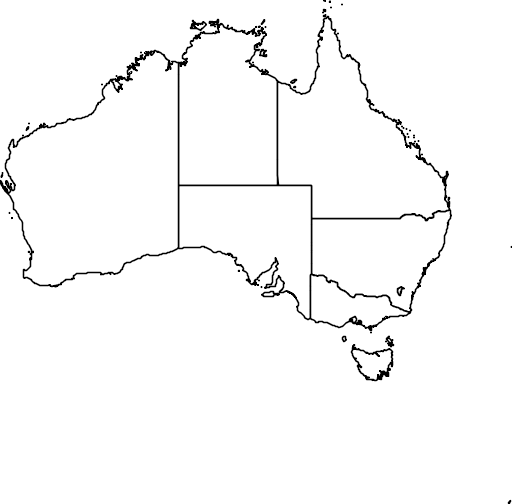
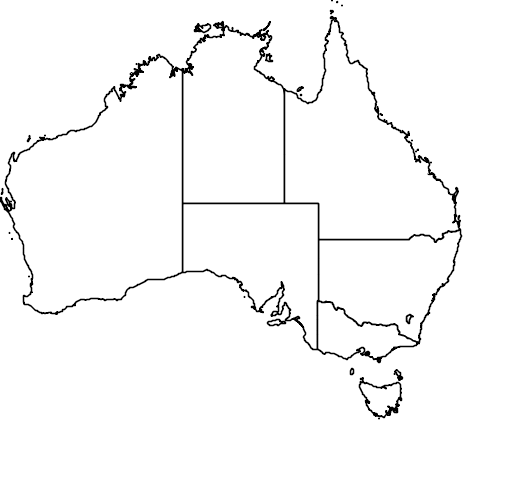
- updated WMSController to use UID's - updated base aus1 image without the Macq Is and Lord Howe Is
git-svn-id: http://alageospatialportal.googlecode.com/svn/trunk@434 73def43e-0e3b-11df-a5af-b38b39d06e06

Changed region(s): [[0.0, 0.0, 0.9062, 0.8333], [0.9688, 0.9821, 1.0, 1.0], [0.8438, 0.5655, 0.875, 0.5952]]

diff --git a/alaspatial/src/main/java/org/ala/spatial/web/services/WMSController.java b/alaspatial/src/main/java/org/ala/spatial/web/services/WMSController.java
@@ -189,7 +189,7 @@ public class WMSController {
                 } else {
                     System.out.println("Starting out search for: " + institution_code);
                     //msg = "generating density insitution code map for: " + institution_code;
-                    int[] recs = OccurrencesIndex.lookup("institutionCode", institution_code);
+                    int[] recs = OccurrencesIndex.lookup("institution_code_uid", institution_code); // institutionCode
 
                     if (recs != null) {
 
@@ -201,7 +201,7 @@ public class WMSController {
                         if (collection_code != null) {
                             for (int i = 0; i < collection_code.length; i++) {
                                 //msg = "generating density insitution/collection code map for: " + institution_code + "/" + collection_code[i];
-                                int[] recs2 = OccurrencesIndex.lookup("collectionCode", collection_code[i]);
+                                int[] recs2 = OccurrencesIndex.lookup("collection_code_uid", collection_code[i]); // collectionCode
                                 if (recs2 != null) {
                                     System.out.println("Got recs2.length: " + recs2.length);
                                     if (finalRecs != null) {
@@ -241,15 +241,15 @@ public class WMSController {
                             System.out.println("Sending out: " + msg);
 
                         } else {
-                            msg = "base/mapaus1_white.png";
+                            msg = baseOutUrl + "base/mapaus1_white.png";
                         }
 
                     } else {
-                        msg = "base/mapaus1_white.png";
+                        msg = baseOutUrl + "base/mapaus1_white.png";
                     }
                 }
             } else if (data_provider_id != null) {
-                msg = baseOutUrl + process(baseDir, "dataProviderId", data_provider_id);
+                msg = baseOutUrl + process(baseDir, "data_provider_uid", data_provider_id); // dataProviderId
                 /*
                 String outputfile = baseDir + File.separator + data_provider_id + ".png";
                 System.out.println("Checking if already present: " + outputfile);
@@ -287,7 +287,7 @@ public class WMSController {
                  * 
                  */
             } else if (dataset_id != null) {
-                msg = baseOutUrl + process(baseDir, "dataResourceId", dataset_id);
+                msg = baseOutUrl + process(baseDir, "data_resource_uid", dataset_id); // dataResourceId
                 /*
                 String outputfile = baseDir + File.separator + dataset_id + ".png";
                 System.out.println("Checking if already present: " + outputfile);
@@ -374,7 +374,7 @@ public class WMSController {
                         System.out.println("Sending out: " + msg);
 
                     } else {
-                        msg = "base/mapaus1_white.png";
+                        msg = baseOutUrl + "base/mapaus1_white.png";
                         System.out.println("Empty filter species");
                     }
 

diff --git a/alaspatial/src/main/java/org/ala/spatial/analysis/heatmap/HeatMap.java b/alaspatial/src/main/java/org/ala/spatial/analysis/heatmap/HeatMap.java
@@ -61,10 +61,10 @@ public class HeatMap {
     private double minY = 0;
     private double maxX = 0;
     private double maxY = 0;
-    private double bMinX = 112.911;
-    private double bMinY = -54.778;
-    private double bMaxX = 159.113;
-    private double bMaxY = -9.221;
+    private double bMinX = 112.911; //112.911;
+    private double bMinY = -50.778; //-54.778;
+    private double bMaxX = 158.113; //159.113;
+    private double bMaxY = -9.221; //-9.221;
     private File baseDir;
     private String baseFile;
 
